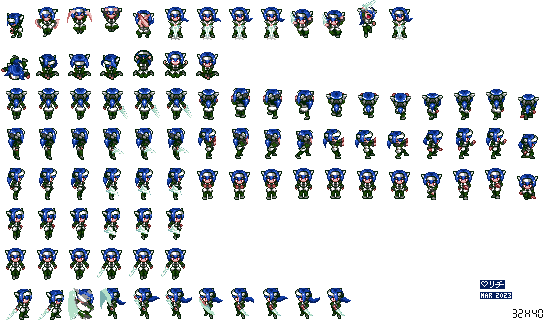
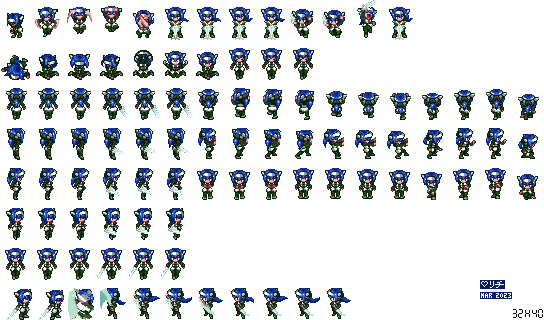
3.2.1
floatEyeClosed updated

Changed region(s): [[0.4062, 0.1562, 0.5938, 0.25]]

diff --git a/changelog.md b/changelog.md
@@ -1,3 +1,11 @@
+## 3.2.1 (02/08/2026)
+### New Content
+- Added floatEyeClosed animation for Triblader2/3/4/5 and Triblader-Lea (for vanilla cutscenes)
+### Changes
+- Renamed Hexacast animation floatEyesClosed to floatEyeClosed to match vanilla standard
+- Changed Triblader2/3/4/5 animations in element unlock map patches to use floatSword and landOnGround
+- Triblader2/3/4/5 now shows battleDamage animation in event arena-player-death-pre
+
 ## 3.2.0 (02/07/2026)
 ### New Content
 - Added \js\azure-lazuline\extern-anim-fix.js, code by Azure Lazuline
